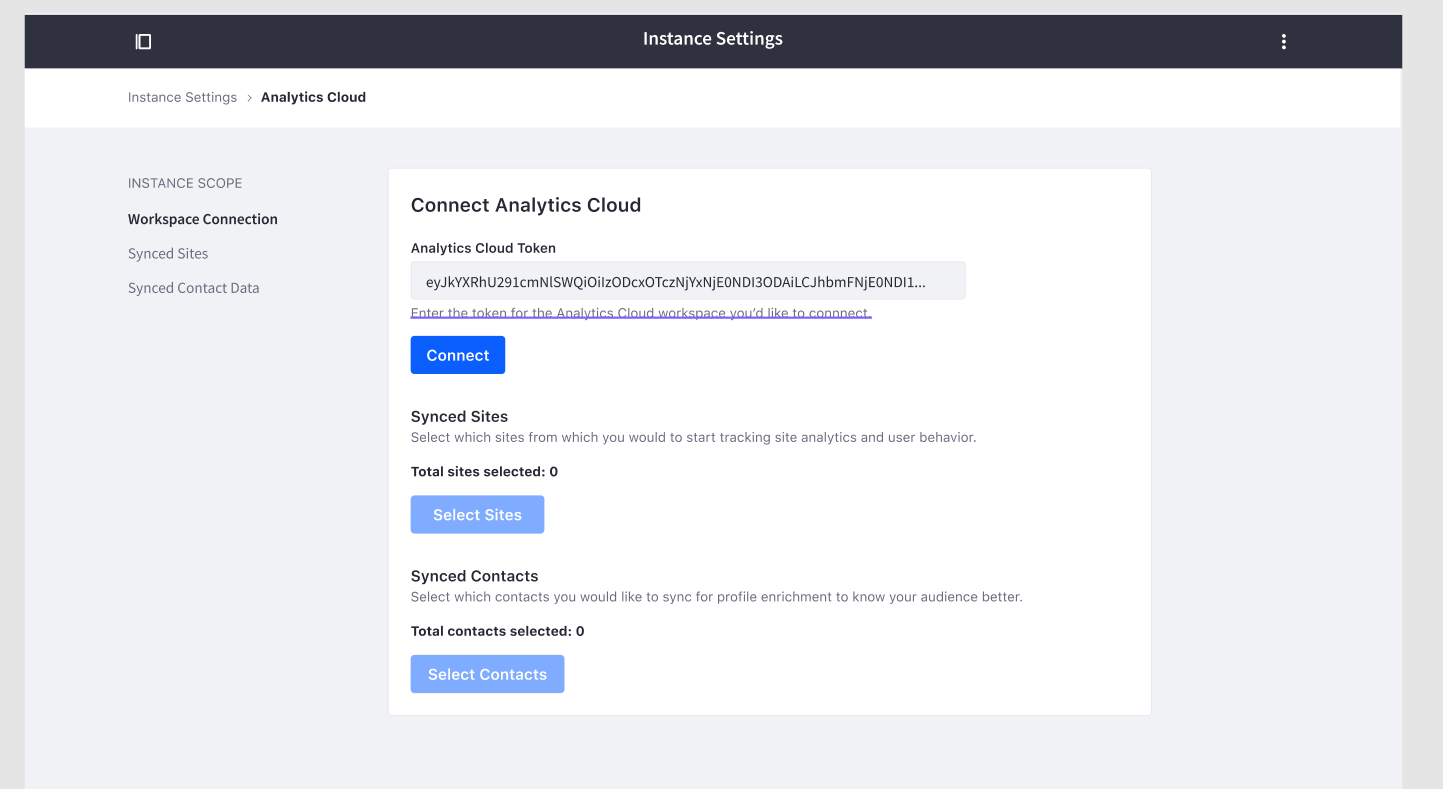
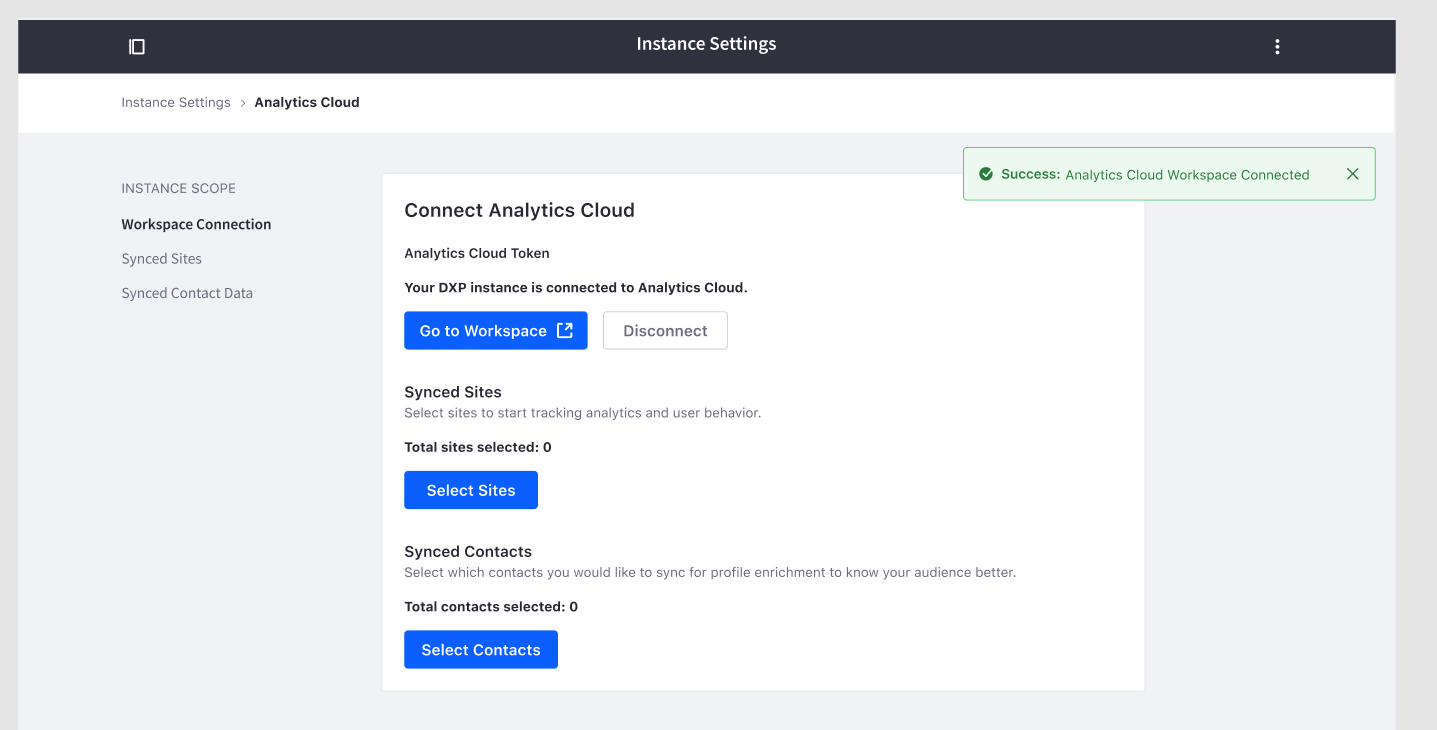
LRDOCS-10201 onboarding process

diff --git a/docs/analytics-cloud/latest/en/connecting-data-sources/connecting-liferay-dxp-to-analytics-cloud.md b/docs/analytics-cloud/latest/en/connecting-data-sources/connecting-liferay-dxp-to-analytics-cloud.md
@@ -15,11 +15,11 @@ Analytics Cloud connects with Liferay DXP with the use of an Access Token. Your 
 
 1. Select Liferay DXP as your data source type. You will see a screen that provides the token to copy.
 
-      ![Analytics Cloud provides a token to copy.](connecting-liferay-dxp-to-analytics-cloud/images/02.png)
+      ![Analytics Cloud provides a token to copy.](connecting-liferay-dxp-to-analytics-cloud/images/01.png)
 
 1. Copy the token and navigate to the Liferay DXP instance. In the *Control Panel* under *Configuration* > *Instance Setting* and, under the *Platform* section, click *Analytics Cloud*. Paste the Access Token in the Analytics Cloud Token field as shown in the image below, then press *Connect*.
 
-      ![Adding the Analytics Cloud token to a Liferay DXP installations Instance Settings configuration.](connecting-liferay-dxp-to-analytics-cloud/images/03.png)
+      ![Adding the Analytics Cloud token to a Liferay DXP installations Instance Settings configuration.](connecting-liferay-dxp-to-analytics-cloud/images/02.png)
 
 ```{note}
 For Liferay DXP 7.0, Analytics Cloud Admin is under *Configuration* > *Analytics Cloud*.
@@ -31,7 +31,7 @@ When the connection is successful, the message, `Your DXP instance is connected 
 See [Do Not Track Feature](../workspace-data/data-control-and-privacy.md#do-not-track-feature) to learn more about suppressing analytics data.
 ```
 
-![A success message confirms correctly configuring a connection between DXP and Analytics Cloud.](connecting-liferay-dxp-to-analytics-cloud/images/04.png)
+![A success message confirms correctly configuring a connection between DXP and Analytics Cloud.](connecting-liferay-dxp-to-analytics-cloud/images/03.png)
 
 Congratulation, your DXP is now connected to your AC workspace!
 

diff --git a/docs/analytics-cloud/latest/en/getting-started/accessing-your-workspace.md b/docs/analytics-cloud/latest/en/getting-started/accessing-your-workspace.md
@@ -9,3 +9,13 @@ Workspaces that have the **Configuration Required** label require the *Workspace
 Additional workspaces may be accessible if your login email address maps to a workspaces **Allowed Email Domains**. These workspaces will be listed at the bottom section. Clicking on the *Request Access* button sends a request to the *Workspace Admin*. Once approved by the *Workspace Admin*, you can start using the workspace as well.
 
 Click on any workspace that you have access to will directly take you to the home of your Analytics Cloud workspace.
+
+## Onboarding Process
+
+If this is a new workspace, you will see an onboarding guide upon entering for the first time. The guide will help you connect Analytics Cloud to your Liferay DXP instance.
+
+![Follow the onboarding guide to connect to your Liferay DXP instance.](./accessing-your-workspace/images/02.png)
+
+After successful connection, invite other people to have access to your new workspace.
+
+![After successful connection, invite others to join the workspace](./accessing-your-workspace/images/03.png)

diff --git a/docs/analytics-cloud/latest/en/getting-started/viewing-the-analytics-dashboard.md b/docs/analytics-cloud/latest/en/getting-started/viewing-the-analytics-dashboard.md
@@ -4,7 +4,7 @@ The home of your workspace is a dashboard of your websites' analytics performanc
 
 ![The Analytics Dashboard presents an overview of your site's analytics data.](viewing-the-analytics-dashboard/images/01.png)
 
-The Dashboard is also the starting point for a variety of workspace management and configuration tasks.
+The Dashboard is also the starting point for a variety of workspace management and configuration tasks. If you have not connected your workspace during the [Onboarding Process](accessing-your-workspace.md#onboarding-process), see the steps below.
 
 ## Connecting a DXP Site to Analytics Cloud
 
